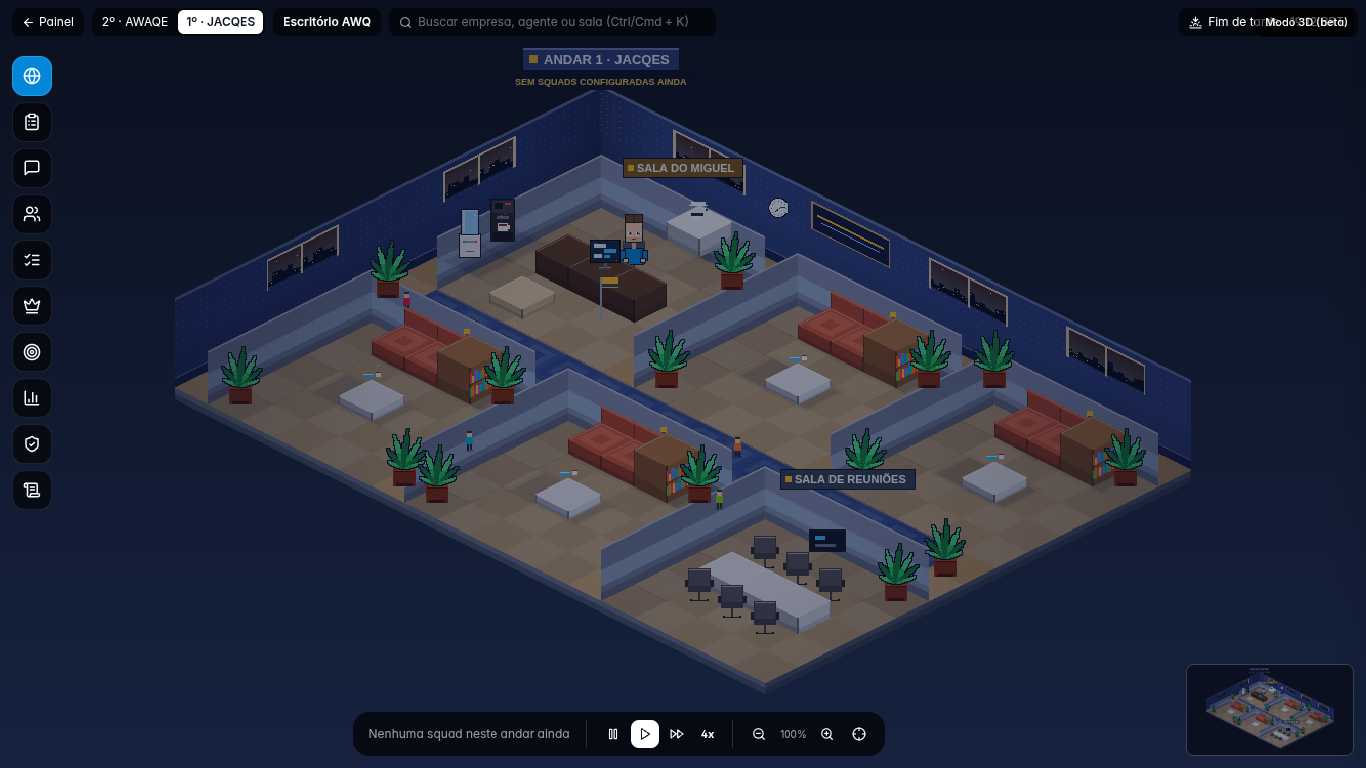
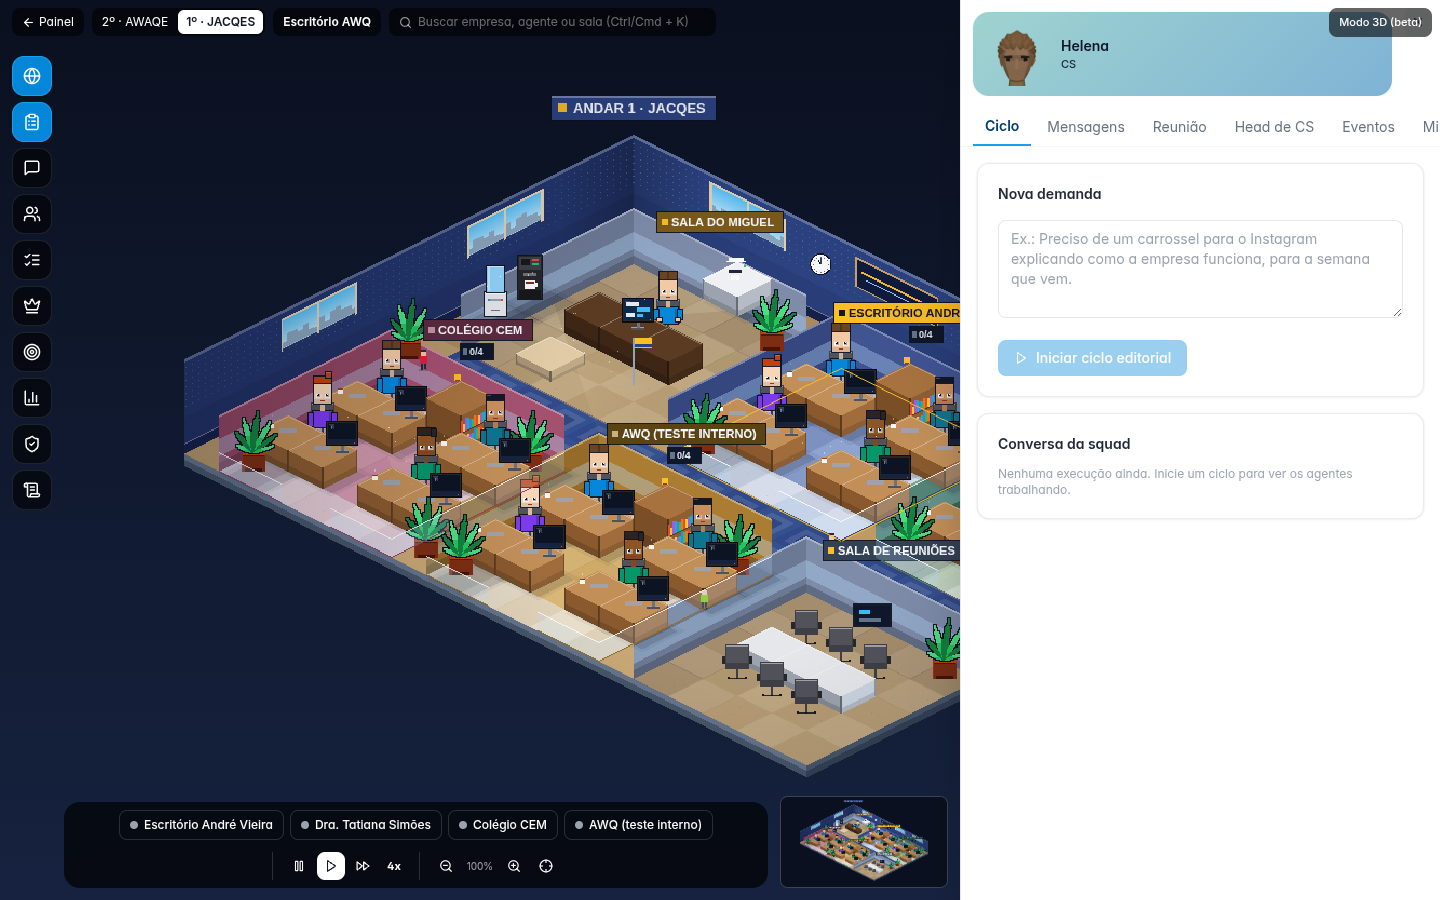
fix(office): retrato fora do bundle 2D, com cabelo e roupa
O RetratoAgente entra por next/dynamic com ssr false, para three não ir no First Load do mapa. O enquadramento fecha no rosto, a silhueta usa a cor da roupa e a cabeça do rig conserva o cabelo.

diff --git a/components/office/RetratoAgente.tsx b/components/office/RetratoAgente.tsx
@@ -63,22 +63,22 @@ async function fotografar(semente: string): Promise<string> {
   const centro = caixa.getCenter(new THREE.Vector3());
   const tamanho = caixa.getSize(new THREE.Vector3());
   const maior = Math.max(tamanho.x, tamanho.y, 0.18);
-  const fov = 26;
-  const dist = (maior / 2) / Math.tan((fov * Math.PI) / 360) * 1.28;
+  const fov = 22;
+  const dist = (maior / 2) / Math.tan((fov * Math.PI) / 360) * 1.04;
 
   const palco = new THREE.Scene();
   palco.add(cabeca);
-  palco.add(new THREE.AmbientLight("#ffffff", 0.75));
-  const chave = new THREE.DirectionalLight("#fff6ea", 1.35);
-  chave.position.set(0.55, 1.6, 2.2);
+  palco.add(new THREE.AmbientLight("#fff1e4", 0.38));
+  const chave = new THREE.DirectionalLight("#fff6ea", 0.72);
+  chave.position.set(0.4, 1.2, 1.8);
   palco.add(chave);
-  const preenchimento = new THREE.DirectionalLight("#d7ecea", 0.5);
-  preenchimento.position.set(-1.1, 0.6, 1.4);
+  const preenchimento = new THREE.DirectionalLight("#d7ecea", 0.22);
+  preenchimento.position.set(-1.1, 0.4, 1.2);
   palco.add(preenchimento);
 
   const camera = new THREE.PerspectiveCamera(fov, 1, 0.02, 30);
-  camera.position.set(centro.x + maior * 0.08, centro.y, centro.z + dist);
-  camera.lookAt(centro);
+  camera.position.set(centro.x + maior * 0.04, centro.y + tamanho.y * 0.06, centro.z + dist);
+  camera.lookAt(centro.x, centro.y + tamanho.y * 0.12, centro.z);
 
   const renderer = new THREE.WebGLRenderer({ alpha: true, antialias: true, preserveDrawingBuffer: true });
   renderer.setPixelRatio(1);
@@ -93,12 +93,12 @@ async function fotografar(semente: string): Promise<string> {
   return url;
 }
 
-function Silhueta({ pele, cabelo }: { pele: string; cabelo: string }) {
+function Silhueta({ pele, cabelo, corpo }: { pele: string; cabelo: string; corpo: string }) {
   return (
     <div className="relative h-full w-full" aria-hidden>
       <div className="absolute left-1/2 top-1.5 h-10 w-10 -translate-x-1/2 rounded-full" style={{ background: pele }} />
       <div className="absolute left-1/2 top-1.5 h-4 w-10 -translate-x-1/2 rounded-t-full" style={{ background: cabelo }} />
-      <div className="absolute inset-x-2.5 bottom-1 h-6 rounded-t-2xl" style={{ background: pele }} />
+      <div className="absolute inset-x-2.5 bottom-1 h-6 rounded-t-2xl" style={{ background: corpo }} />
     </div>
   );
 }
@@ -135,7 +135,7 @@ export function RetratoAgente({ semente, nome, papel }: { semente: string; nome:
         style={{ background: "linear-gradient(135deg, #9fd3d0 0%, #7fb3d5 100%)" }}
       >
         <div className="relative h-16 w-16 shrink-0 overflow-hidden rounded-xl">
-          {foto ? <img src={foto} alt="" className="h-full w-full object-contain" /> : <Silhueta pele={a.pele} cabelo={a.cabelo} />}
+          {foto ? <img src={foto} alt="" className="h-full w-full object-contain" /> : <Silhueta pele={a.pele} cabelo={a.cabelo} corpo={a.corpo} />}
         </div>
         <div className="min-w-0">
           <div className="truncate text-sm font-semibold text-slate-900">{nome}</div>

diff --git a/components/office/OfficeGame.tsx b/components/office/OfficeGame.tsx
@@ -10,7 +10,12 @@ import {
   type Agente, type Atividade, type Estado, type Humor, type Mundo,
 } from "@/lib/office-iso";
 import { ANDARES, andarDaEmpresa, casaNoPonto, centroDaDiretoria, centroDaReuniao, centroDoEstudio, centroDoPredio, desenharMundo, layoutPredios, predioNoPonto, WH, WW, type AndarId, type Empresa, type EstadoReuniao } from "@/lib/office-world";
-import { RetratoAgente } from "./RetratoAgente";
+import dynamic from "next/dynamic";
+
+const RetratoAgente = dynamic(
+  () => import("./RetratoAgente").then((m) => m.RetratoAgente),
+  { ssr: false },
+);
 
 /**
  * O Office como mundo jogável: um mapa do grupo com um prédio por cliente, e dentro de

diff --git a/components/office/CorpoQuaternius.tsx b/components/office/CorpoQuaternius.tsx
@@ -272,9 +272,9 @@ export function montarCabeca(cena: THREE.Object3D, semente: string): THREE.Objec
   const clone = SkeletonUtils.clone(cena) as THREE.Object3D;
   const remover: THREE.Object3D[] = [];
   clone.traverse((o) => {
-    if (o.parent?.name === "CharacterArmature" && /_(Head|Body|Legs|Feet)$/.test(o.name) && o.name !== nome) {
-      remover.push(o);
-    }
+    if (o.parent?.name !== "CharacterArmature") return;
+    if (o.name === nome || /Hair/i.test(o.name) || o.name === "Root") return;
+    if (/_(Head|Body|Legs|Feet)$/.test(o.name)) remover.push(o);
   });
   for (const o of remover) o.removeFromParent();
   aplicarTinta(clone, a);
